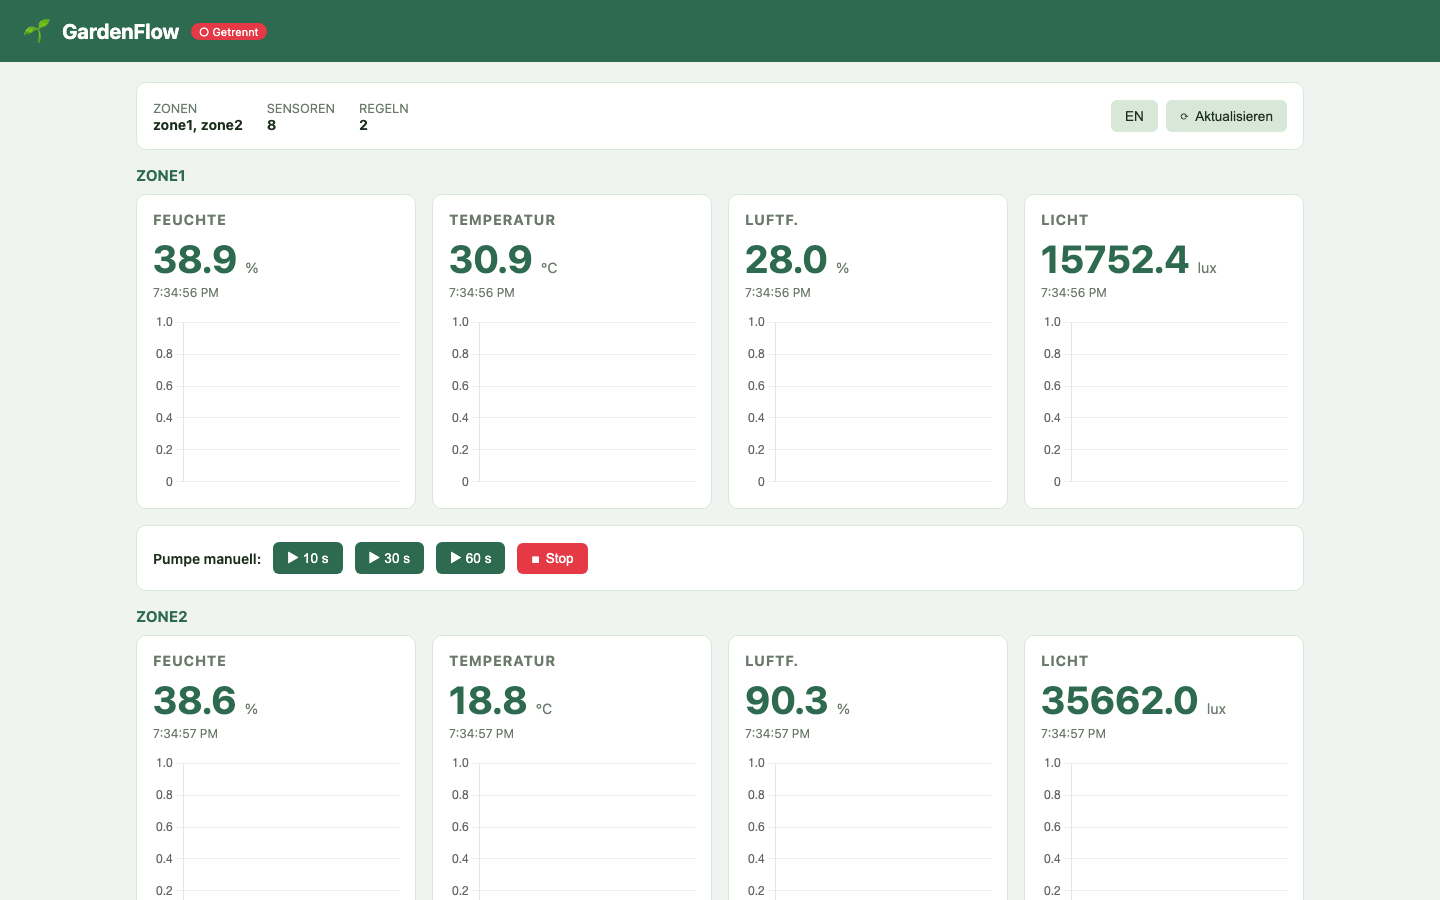
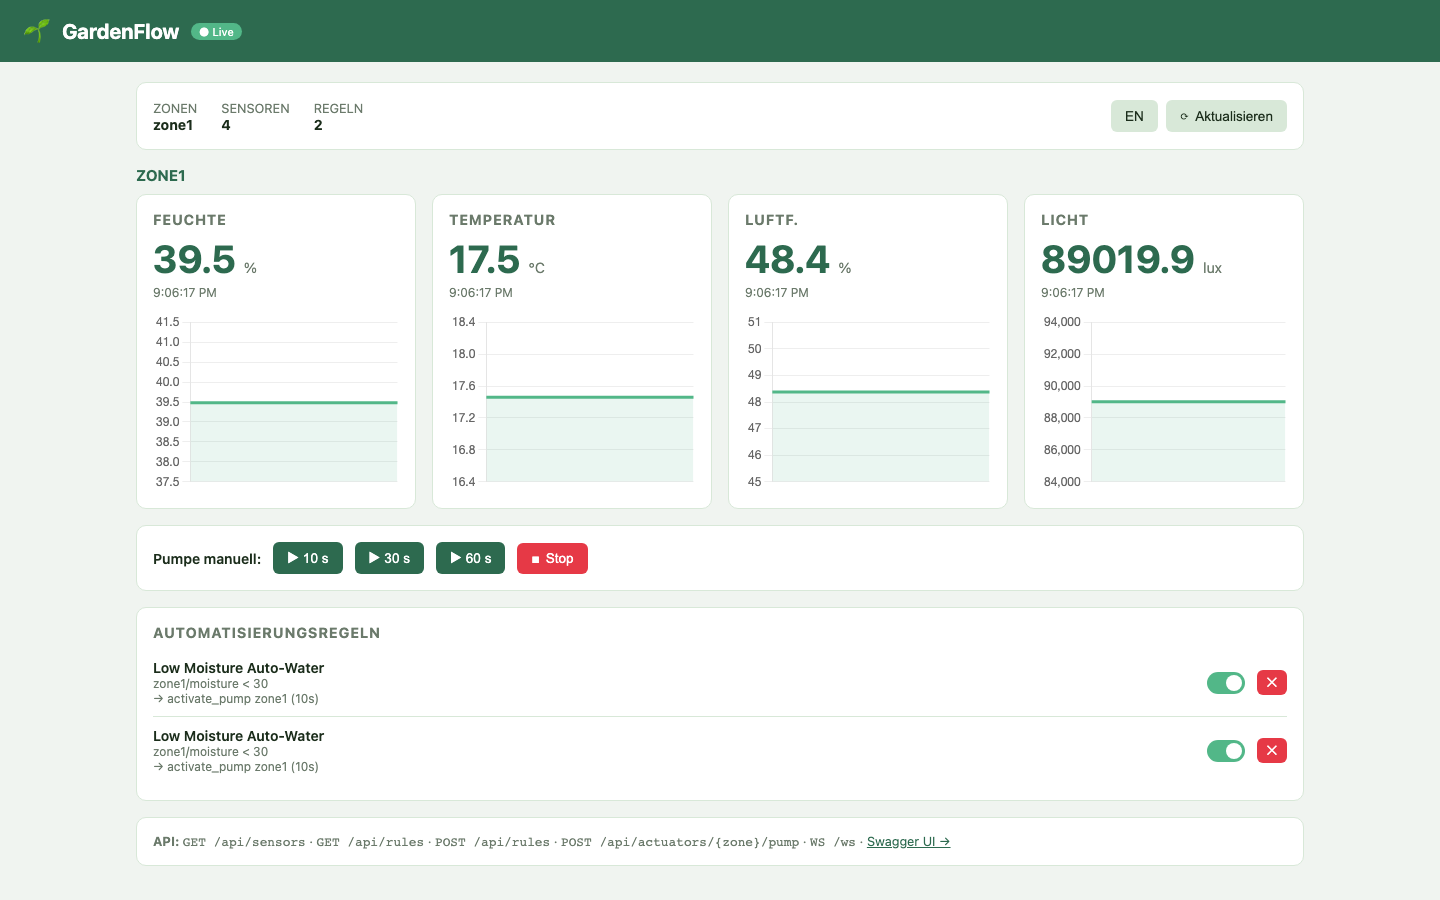
fix: repair broken WebSocket route and Chart.js stack overflow (#10)
The real-time dashboard's core feature was completely broken: the
WebSocket endpoint (/ws) always returned HTTP 500. app.mount("/",
StaticFiles(...)) was registered before @user.websocket("/ws"), so the
root-mounted static-files catch-all intercepted the handshake before
the dedicated route could ever match (StaticFiles only implements the
ASGI "http" scope, not "websocket", so it hit an assertion and crashed).
Moved the websocket route registration before the static mount. Verified
live: the dashboard now shows "Live" instead of a permanent
"Disconnected", and sensor data pushed via MQTT reaches the browser in
real time.

Also found and fixed a second real bug while testing: Chart.js instances
were stored inside Alpine.js's reactive x-data (charts: {}), so every
sensor update made Alpine try to deep-proxy-wrap a Chart.js object graph
full of circular internal references, throwing "RangeError: Maximum
call stack size exceeded" in the browser on nearly every interaction,
including making the language toggle appear to silently do nothing.
Moved the charts map to a module-level plain object outside Alpine's
reactive state.

Removed the `|| true` from CI's import check, which meant it could never
actually fail regardless of the real import result. Corrected
ARCHITECTURE.md (file tree, MQTT topics, mosquitto config path all
described files/paths that don't exist) and CONTRIBUTING.md (referenced
a nonexistent pyproject.toml and a pytest suite that doesn't exist).
[…]

diff --git a/frontend/assets/app.js b/frontend/assets/app.js
@@ -27,6 +27,14 @@ const TRANSLATIONS = {
   },
 };
 
+// Chart.js instances live outside Alpine's reactive state on purpose: Alpine
+// wraps x-data in a Proxy for reactivity, and Chart.js instances contain
+// circular internal references (canvas/scale/plugin cross-links) that blow
+// the stack when Alpine tries to deeply proxy-wrap them ("Maximum call stack
+// size exceeded"), breaking every re-render on the page, including things
+// unrelated to charts like the language toggle.
+const charts = {};    // { "zone1.moisture": Chart }
+
 document.addEventListener("alpine:init", () => {
   Alpine.data("gardenflow", () => ({
     connected: false,
@@ -34,7 +42,6 @@ document.addEventListener("alpine:init", () => {
     sensors: {},   // { "zone1.moisture": { value, unit, zone, ts } }
     rules: [],
     zones: [],
-    charts: {},    // { "zone1.moisture": Chart }
     lang: localStorage.getItem("gardenflow_lang") || "en",
 
     // ---- i18n ----
@@ -90,8 +97,8 @@ document.addEventListener("alpine:init", () => {
     pushChart(key, value) {
       const canvas = document.getElementById("chart-" + key);
       if (!canvas) return;
-      if (!this.charts[key]) {
-        this.charts[key] = new Chart(canvas, {
+      if (!charts[key]) {
+        charts[key] = new Chart(canvas, {
           type: "line",
           data: { labels: [], datasets: [{ data: [], borderColor: "#52b788", backgroundColor: "rgba(82,183,136,.12)", fill: true, tension: 0.35, pointRadius: 0 }] },
           options: {
@@ -102,7 +109,7 @@ document.addEventListener("alpine:init", () => {
           },
         });
       }
-      const chart = this.charts[key];
+      const chart = charts[key];
       const now = new Date().toLocaleTimeString();
       chart.data.labels.push(now);
       chart.data.datasets[0].data.push(value);

diff --git a/frontend/index.html b/frontend/index.html
@@ -24,7 +24,7 @@
     <div class="card" style="display:flex;gap:24px;align-items:center;flex-wrap:wrap;">
       <div>
         <span style="font-size:.8rem;color:var(--muted)" x-text="t('zones')"></span>
-        <div style="font-weight:700" x-text="zones.length ? zones.join(', ') : '—'"></div>
+        <div style="font-weight:700" x-text="zones.length ? zones.join(', ') : '-'"></div>
       </div>
       <div>
         <span style="font-size:.8rem;color:var(--muted)" x-text="t('sensors')"></span>

diff --git a/backend/main.py b/backend/main.py
@@ -39,7 +39,7 @@ async def lifespan(app: FastAPI):
 app = FastAPI(
     title="GardenFlow",
     description="Modular Home Garden Automation Toolkit",
-    version="1.0.0",
+    version="0.1.6",
     lifespan=lifespan,
 )
 
@@ -56,11 +56,6 @@ app.include_router(actuators_router)
 app.include_router(rules_router)
 app.include_router(status_router)
 
-# Serve frontend from /
-frontend_path = Path(__file__).parent.parent / "frontend"
-if frontend_path.exists():
-    app.mount("/", StaticFiles(directory=str(frontend_path), html=True), name="frontend")
-
 
 @app.websocket("/ws")
 async def websocket_endpoint(ws: WebSocket):
@@ -70,3 +65,12 @@ async def websocket_endpoint(ws: WebSocket):
             await ws.receive_text()
     except WebSocketDisconnect:
         registry.disconnect(ws)
+
+
+# Serve frontend from /; registered last since it mounts at root and would
+# otherwise catch every path (including /ws) before more specific routes,
+# crashing the WebSocket handshake with a 500 (StaticFiles only handles
+# the ASGI "http" scope, not "websocket").
+frontend_path = Path(__file__).parent.parent / "frontend"
+if frontend_path.exists():
+    app.mount("/", StaticFiles(directory=str(frontend_path), html=True), name="frontend")

diff --git a/backend/mqtt/client.py b/backend/mqtt/client.py
@@ -39,7 +39,7 @@ async def mqtt_loop() -> None:
                 async for message in client.messages:
                     await _handle_message(str(message.topic), message.payload)
         except aiomqtt.MqttError as exc:
-            logger.warning("MQTT disconnected (%s) — reconnecting in %ds", exc, reconnect_delay)
+            logger.warning("MQTT disconnected (%s), reconnecting in %ds", exc, reconnect_delay)
             await asyncio.sleep(reconnect_delay)
             reconnect_delay = min(reconnect_delay * 2, 60)
         except Exception:
@@ -51,7 +51,7 @@ async def _handle_message(topic: str, payload: bytes) -> None:
     try:
         data = json.loads(payload.decode())
     except (json.JSONDecodeError, UnicodeDecodeError):
-        logger.debug("Non-JSON payload on %s — ignored", topic)
+        logger.debug("Non-JSON payload on %s, ignored", topic)
         return
 
     parsed = parse_sensor_topic(topic)
@@ -62,7 +62,7 @@ async def _handle_message(topic: str, payload: bytes) -> None:
     try:
         sensor_type = SensorType(sensor_type_str)
     except ValueError:
-        logger.debug("Unknown sensor type '%s' — ignored", sensor_type_str)
+        logger.debug("Unknown sensor type '%s', ignored", sensor_type_str)
         return
 
     reading = SensorReading(

diff --git a/tools/test_sensor.py b/tools/test_sensor.py
@@ -1,5 +1,5 @@
 """
-Sensor-Simulator — plattformunabhängig (Linux, Windows, macOS).
+Sensor-Simulator, plattformunabhängig (Linux, Windows, macOS).
 Sendet zufällige Sensor-Werte via MQTT an den lokalen Broker.
 
 Verwendung:
@@ -30,7 +30,7 @@ async def simulate(host: str, port: int, zone: str, count: int, interval: float)
 
     print(f"Verbinde mit MQTT {host}:{port} …")
     async with aiomqtt.Client(host, port) as client:
-        print(f"Sende {count} Lesungen für Zone '{zone}' (Interval {interval}s) — Ctrl+C zum Beenden\n")
+        print(f"Sende {count} Lesungen für Zone '{zone}' (Interval {interval}s), Ctrl+C zum Beenden\n")
         for i in range(count):
             for sensor_type, (lo, hi), unit in sensors:
                 value = round(random.uniform(lo, hi), 2)

diff --git a/ARCHITECTURE.md b/ARCHITECTURE.md
@@ -1,4 +1,4 @@
-# Architecture — GardenFlow
+# Architecture, GardenFlow
 
 ## Overview
 
@@ -7,38 +7,54 @@ GardenFlow is a Python/FastAPI application with MQTT integration, deployed via D
 ```
 GardenFlow/
 ├── backend/
-│   ├── main.py             # FastAPI app, WebSocket endpoint
-│   ├── mqtt_client.py      # MQTT subscriber (paho-mqtt)
-│   ├── rule_engine.py      # Automation rule evaluator
-│   ├── db.py               # SQLite storage (aiosqlite)
-│   └── models.py           # Pydantic data models
+│   ├── main.py                # FastAPI app, startup wiring
+│   ├── config.py               # pydantic-settings configuration
+│   ├── database.py             # SQLite storage (aiosqlite)
+│   ├── requirements.txt
+│   ├── mqtt/
+│   │   ├── client.py           # MQTT subscriber (aiomqtt)
+│   │   └── topics.py           # topic parsing/wildcards
+│   ├── sensors/
+│   │   ├── models.py           # SensorReading, SensorType
+│   │   └── repository.py       # persistence for sensor readings
+│   ├── actuators/
+│   │   ├── models.py           # ActuatorType, actuator state
+│   │   └── controller.py       # actuator command dispatch
+│   ├── rules/
+│   │   ├── models.py           # rule definitions
+│   │   ├── engine.py           # automation rule evaluator
+│   │   └── storage.py          # rule persistence
+│   └── api/
+│       ├── sensors.py          # sensor REST endpoints
+│       ├── actuators.py        # actuator REST endpoints
+│       ├── rules.py            # rule management REST endpoints
+│       ├── status.py           # health/status endpoint
+│       └── websocket.py        # real-time dashboard push
 ├── frontend/
-│   ├── index.html          # Real-time dashboard
-│   └── static/             # JS, CSS
-├── sensors/
-│   └── esp32/              # Example ESP32 firmware (Arduino)
-├── docker-compose.yml      # Full stack: mosquitto + backend + frontend
+│   ├── index.html              # real-time dashboard (no build step)
+│   └── assets/                 # app.js, style.css
 ├── mosquitto/
-│   └── mosquitto.conf      # MQTT broker config
-├── pyproject.toml
-└── README.md
+│   └── config/
+│       └── mosquitto.conf      # MQTT broker config
+├── tools/
+│   └── test_sensor.py          # cross-platform CLI sensor simulator
+└── docker-compose.yml          # full stack: mosquitto + backend + frontend
 ```
 
 ## Data Flow
 
-1. **Sensors** (ESP32, Zigbee) publish readings to MQTT topics (e.g., `garden/sensor/soil_moisture`)
+1. **Sensors** (ESP32, Zigbee, or the `tools/test_sensor.py` simulator) publish readings to MQTT topics under `garden/sensors/<zone>/<type>`
 2. **Mosquitto** broker receives and routes messages
-3. **mqtt_client** subscribes, parses, and writes readings to SQLite
-4. **rule_engine** evaluates automation rules (e.g., "if soil_moisture < 30% → trigger pump")
-5. **FastAPI** exposes REST API + WebSocket for the dashboard
-6. **Dashboard** displays real-time sensor data, rule status, and history charts
+3. **backend/mqtt/client.py** subscribes via `aiomqtt`, parses readings, and writes them through `sensors/repository.py` into SQLite
+4. **backend/rules/engine.py** evaluates automation rules (e.g., "if soil_moisture < 30% -> trigger pump") and dispatches actions via `actuators/controller.py`
+5. **FastAPI** (`backend/api/`) exposes REST endpoints and a WebSocket stream for the dashboard
+6. **Dashboard** (`frontend/index.html` + `assets/app.js`) displays real-time sensor data, rule status, and history charts via Chart.js
 
 ## MQTT Topic Convention
 
 ```
-garden/sensor/<sensor_id>/<metric>
-garden/actuator/<actuator_id>/command
-garden/actuator/<actuator_id>/status
+garden/sensors/<zone>/<type>
+garden/actuators/<zone>/<type>/command
 ```
 
 ## Supported Protocols
@@ -46,6 +62,6 @@ garden/actuator/<actuator_id>/status
 | Protocol | Use Case |
 |----------|----------|
 | MQTT (Mosquitto) | Primary sensor/actuator bus |
-| ESP32 (WiFi) | DIY sensors and actuators |
-| Zigbee (via Zigbee2MQTT) | Commercial sensors |
+| ESP32 (WiFi) | DIY sensors and actuators, publish over MQTT directly (no bundled firmware in this repo) |
+| Zigbee (via Zigbee2MQTT) | Commercial sensors, bridged to MQTT |
 | WebSocket | Real-time dashboard updates |

diff --git a/CONTRIBUTING.md b/CONTRIBUTING.md
@@ -4,7 +4,7 @@
 
 ### Prerequisites
 
-- Python 3.11+
+- Python 3.12+
 - [Docker](https://docker.com) (optional)
 
 ### Setup
@@ -13,14 +13,14 @@
 2. `git clone https://github.com/YOUR_USERNAME/GardenFlow`
 3. `cd GardenFlow`
 4. `python -m venv .venv && source .venv/bin/activate`
-5. `pip install -e ".[dev]"`
+5. `pip install -r backend/requirements.txt`
 
 ## Development Workflow
 
 1. Create a feature branch: `git checkout -b feature/xyz`
 2. Make your changes
-3. Run tests: `pytest`
-4. Run linter: `ruff check .`
+3. Run the app locally and verify your change (there is currently no automated test suite, see ROADMAP.md)
+4. Run linter: `ruff check .` (if configured for your editor; not currently enforced in CI)
 5. Commit: `git commit -m "[feat] description"`
 6. Push and open a Pull Request
 
@@ -31,12 +31,12 @@
 
 ## Commit Convention
 
-`[type] description` — where type is:
-- `[feat]` — new feature
-- `[fix]` — bug fix
-- `[docs]` — documentation only
-- `[refactor]` — code cleanup
-- `[test]` — tests only
+`[type] description`, where type is:
+- `[feat]`: new feature
+- `[fix]`: bug fix
+- `[docs]`: documentation only
+- `[refactor]`: code cleanup
+- `[test]`: tests only
 
 ## Questions?
 

diff --git a/CHANGELOG.md b/CHANGELOG.md
@@ -5,6 +5,18 @@ Format follows [Keep a Changelog](https://keepachangelog.com/en/1.0.0/).
 
 ---
 
+## [0.1.6] (2026-07-08)
+
+### Fixed
+- The WebSocket endpoint (`/ws`) returned HTTP 500 on every connection attempt: `app.mount("/", StaticFiles(...))` was registered before `@app.websocket("/ws")`, so the root-mounted static files catch-all intercepted the handshake before the dedicated route could match (`StaticFiles` only handles the ASGI `http` scope, not `websocket`, so it hit an `assert scope["type"] == "http"` and crashed). The dashboard always showed "Disconnected" and never received a single live push update; verified live with the fix, the badge now shows "Live" and charts update in real time
+- Chart.js instances were stored in `charts: {}` inside Alpine.js's reactive `x-data`, so every sensor update triggered Alpine to deep-proxy-wrap a Chart.js object graph full of circular internal references, throwing `RangeError: Maximum call stack size exceeded` in the browser console on nearly every page interaction, including the language toggle appearing to silently do nothing. Moved the charts map outside Alpine's reactive state entirely
+- CI's import check (`python -c "import main" 2>/dev/null || true`) could never fail regardless of the actual import result; removed the silencing so a broken import actually fails the build
+- Corrected `ARCHITECTURE.md`'s file tree, MQTT topic convention, and mosquitto config path to match the real `backend/` package layout (it previously described flat files like `mqtt_client.py`/`rule_engine.py`/`db.py` and a bundled ESP32 firmware directory, none of which exist)
+- Corrected `CONTRIBUTING.md`, which referenced a nonexistent `pyproject.toml`/`pip install -e ".[dev]"` and a `pytest` suite that doesn't exist
+- Fixed em-dashes across documentation, `tools/test_sensor.py`, `backend/mqtt/client.py`, and `frontend/index.html`
+- Removed stale `SKELETON.md`/`TEMPLATE_NOTES.md` scaffolding bookkeeping
+- Fixed the FastAPI app's reported `version` claiming `1.0.0` while the repository's actual tags were at `v0.1.5`
+
 ## [0.1.1] (2026-07-07)
 
 ### Fixed

diff --git a/ROADMAP.md b/ROADMAP.md
@@ -1,6 +1,6 @@
-# Roadmap — GardenFlow
+# Roadmap, GardenFlow
 
-## v0.1.0 — Initial Release (2026-06-15)
+## v0.1.0, Initial Release (2026-06-15)
 - [x] MQTT broker integration (Mosquitto)
 - [x] Sensor data ingestion and SQLite storage
 - [x] Automation rule engine
@@ -8,18 +8,18 @@
 - [x] Real-time dashboard (FastAPI + WebSocket)
 - [x] Docker Compose deployment
 
-## v0.2.0 — Planned
+## v0.2.0, Planned
 - [ ] Rule editor UI (no config file editing)
 - [ ] Historical charts (7d, 30d views)
 - [ ] Push notifications (ntfy / Gotify)
 - [ ] Multi-zone support (greenhouse, beds, pots)
 
-## v0.3.0 — Planned
+## v0.3.0, Planned
 - [ ] Weather API integration (offline: open-meteo)
 - [ ] Predictive watering (simple ML model)
 - [ ] Mobile-optimized dashboard
 
-## v1.0.0 — Target
+## v1.0.0, Target
 - [ ] Full test coverage
 - [ ] Helm chart for Kubernetes deployment
 - [ ] Plugin system for custom sensor adapters

diff --git a/SECURITY.md b/SECURITY.md
@@ -22,5 +22,5 @@ I aim to respond within 72 hours and will keep you informed throughout the proce
 
 ## Scope
 
-This project runs **fully locally** — no data is sent to external servers. 
+This project runs **fully locally**, no data is sent to external servers. 
 Network access (if any) is limited to local network resources only.